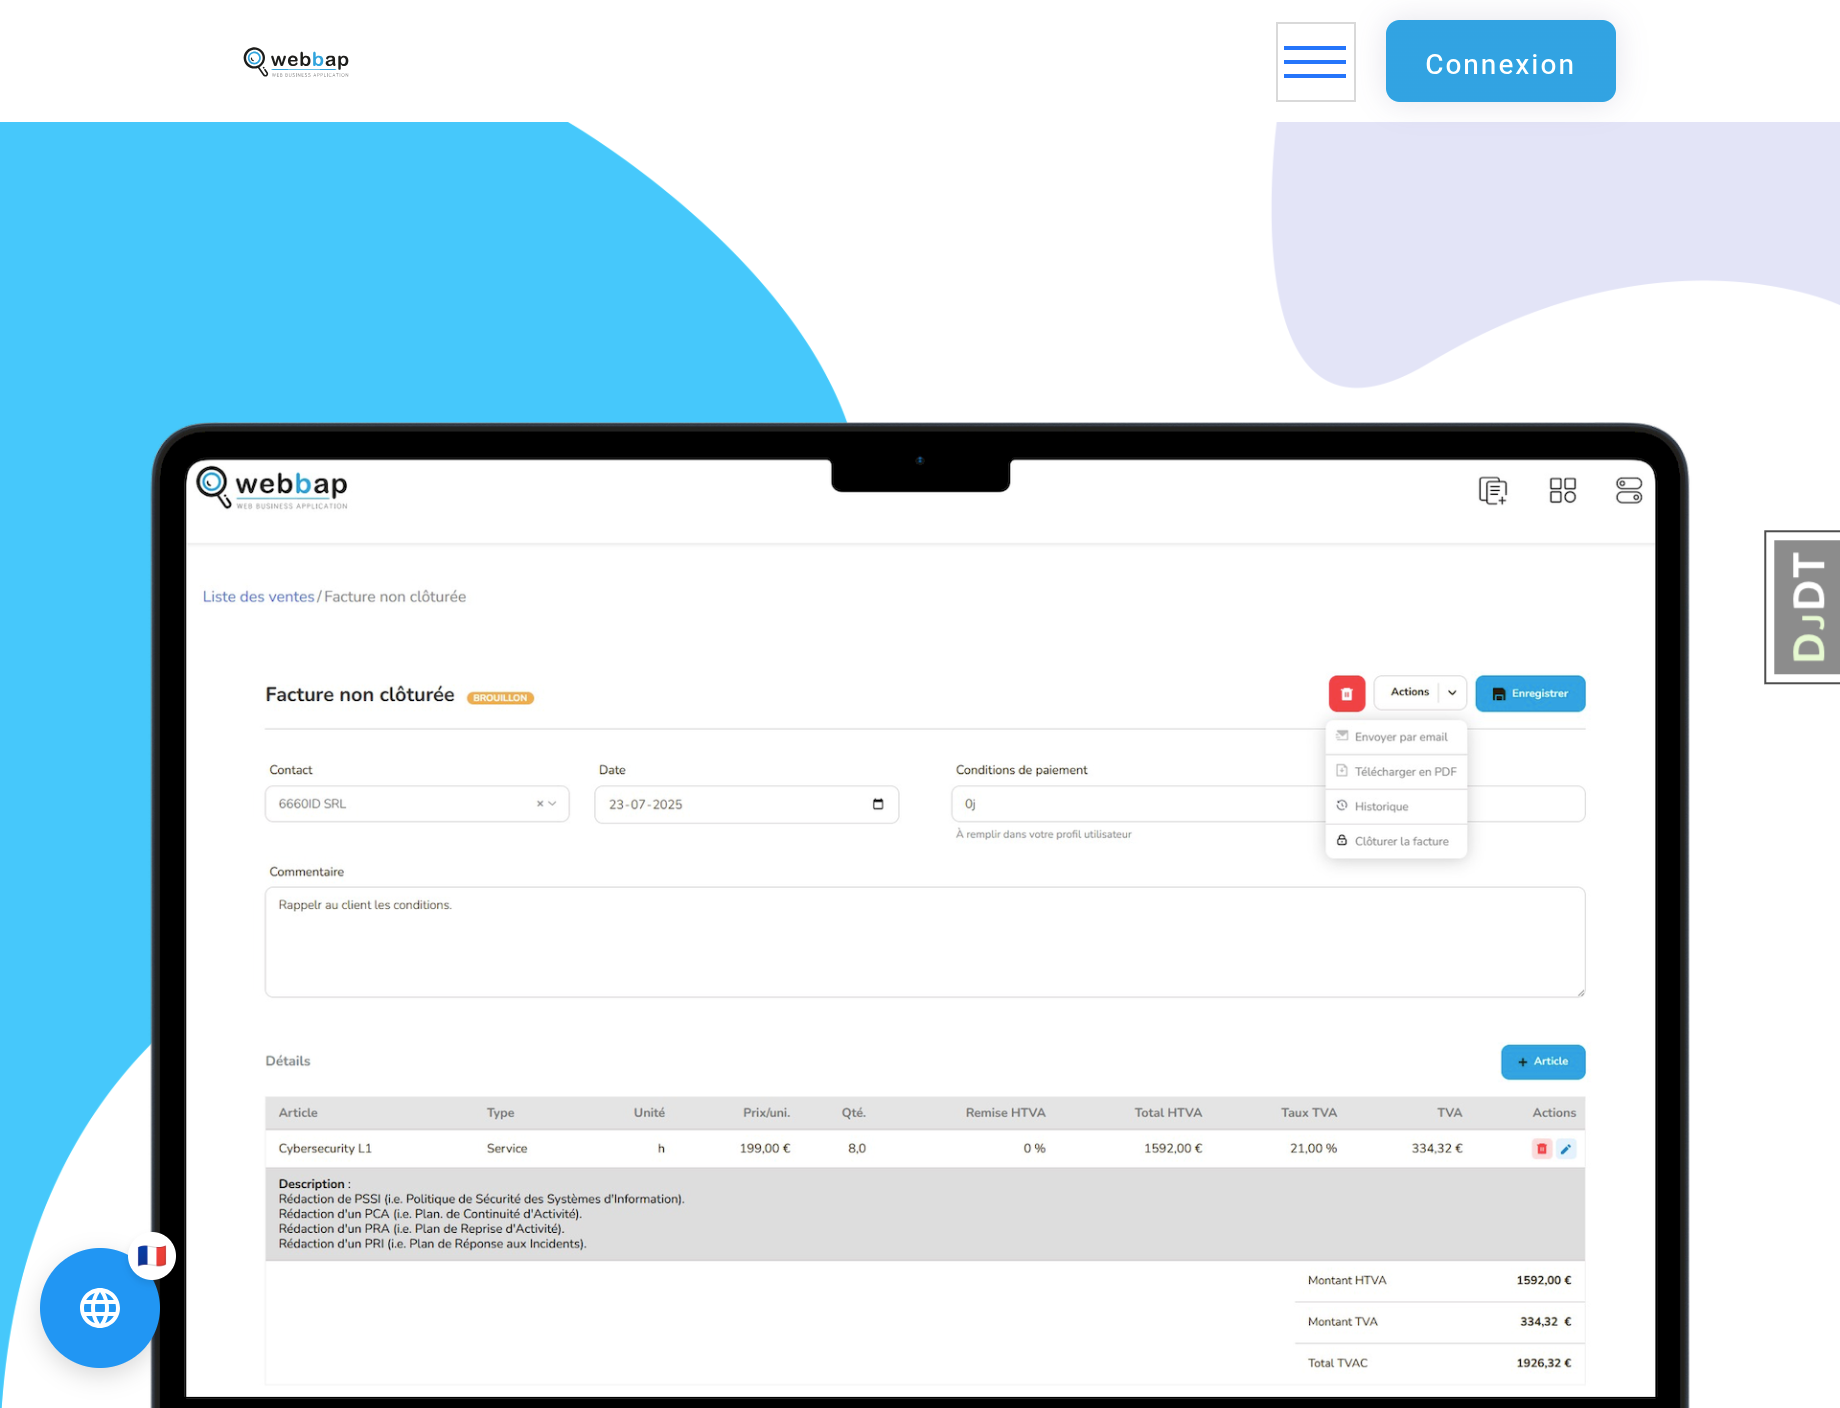
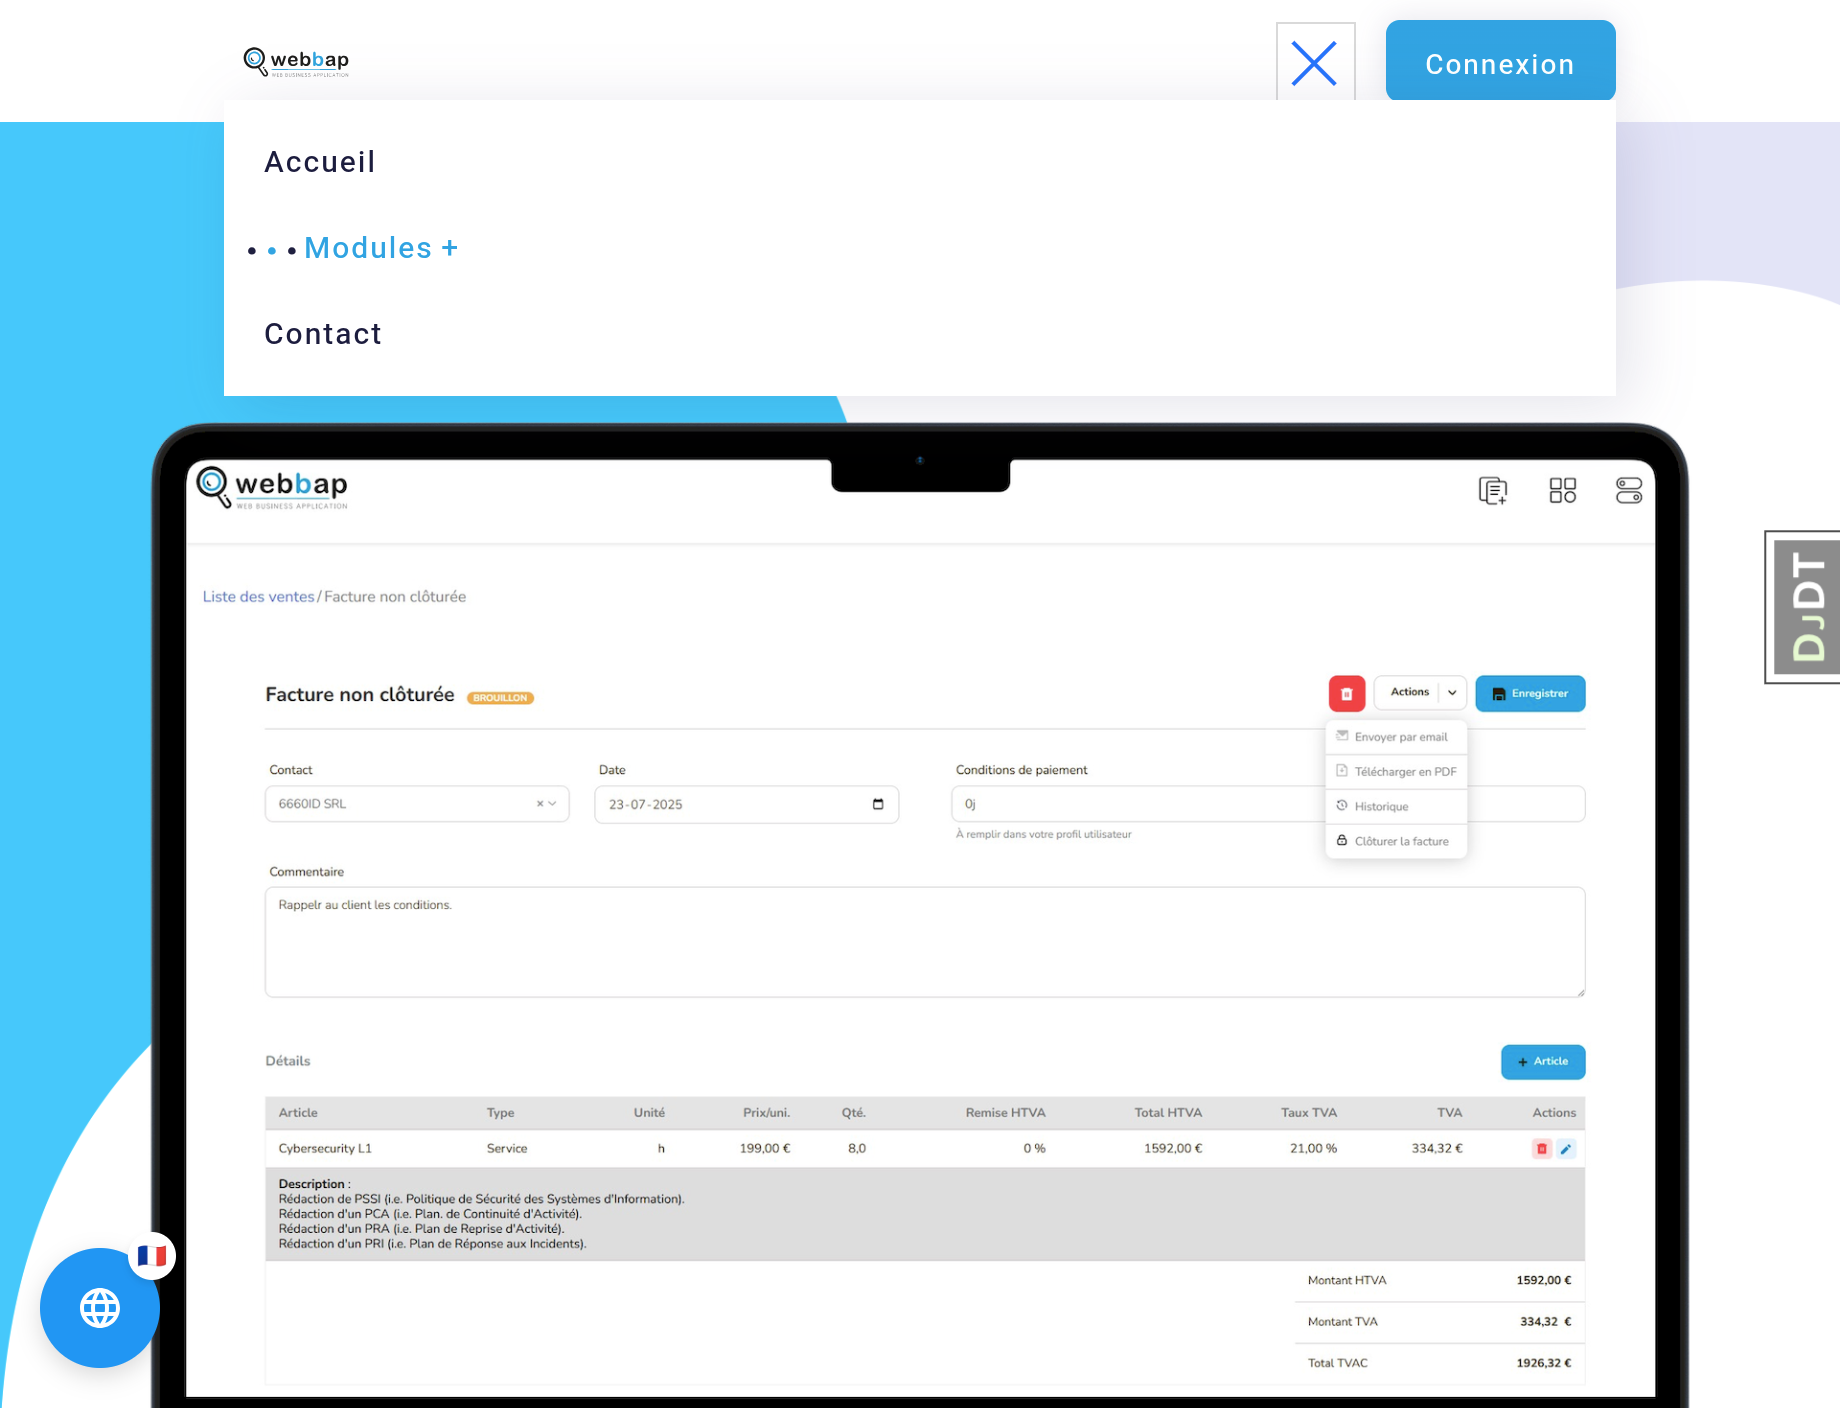
ajout de resumer et work

Changed region(s): [[0.1239, 0.0625, 0.4647, 0.2812], [0.6815, 0.0312, 0.8984, 0.2812]]

diff --git a/app/work/page.tsx b/app/work/page.tsx
@@ -94,7 +94,7 @@ const projects = [
     description:
       "Conception et développement du site vitrine de SCAR-SOFT présentant l'entreprise, ses activités et ses prestations de services.",
     stack: [{ name: "Vue.js" }, { name: "TailwindCSS" }],
-    image: "/assets/work/thumb5.png",
+    image: "/assets/work/thumb7.png",
     live: "",
     github: "",
   },